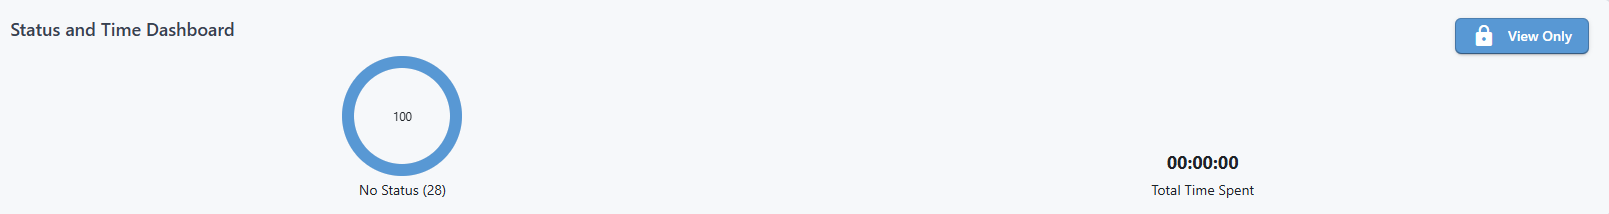
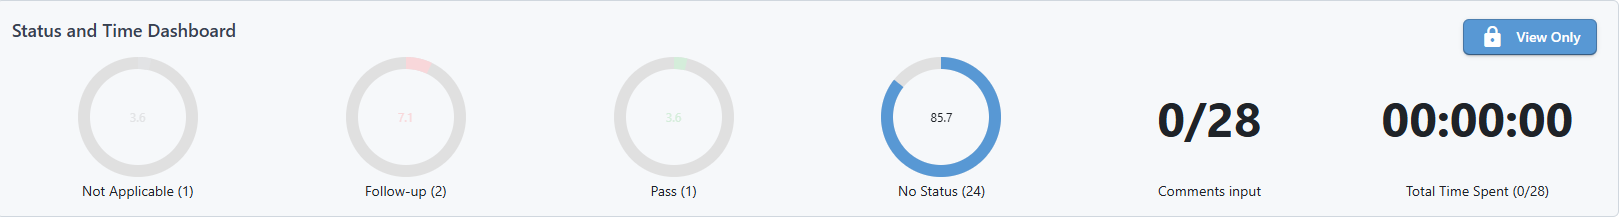
feat: update dashboard section

diff --git a/docs/features/checklist.md b/docs/features/checklist.md
@@ -39,9 +39,14 @@ Next, below the project and checklist metadata, you will see the status and time
 
 The status and time spent dashboard is designed to give you a quick overview of the progress of your checklist review. 
 
-The status count will update as you:
-1. Update the 'Status' of each checklist item in the table
-2. Update 'Time Spent' for each checklist item in the table, either by clicking the start/stop timer button or by manually inputting the time spent.
+The dashboard will update as you:
+
+1. Update the 'Status' of each checklist item in the table. 
+      1. Each status (Pass, Follow-up, TBD, Not Applicable) has a different color badge
+      2. The number of the status count (inside he bracket) will update as you change the status of the checklist item in the table.  
+2. Update 'Time Spent' for each checklist item in the table, either by clicking the start/stop timer button or by manually inputting the time spent. 
+      1. The number of time spent count (inside the bracket) will update as you fill in the time spent for each checklist item in the table.
+3. Update the 'Curator's Comments' for each checklist item in the table.  
 
 On the top right corner of the dashboard, there's a 'View Only' button, where you can toggle the page to a view-only mode, without the ability to edit the checklist.
 
